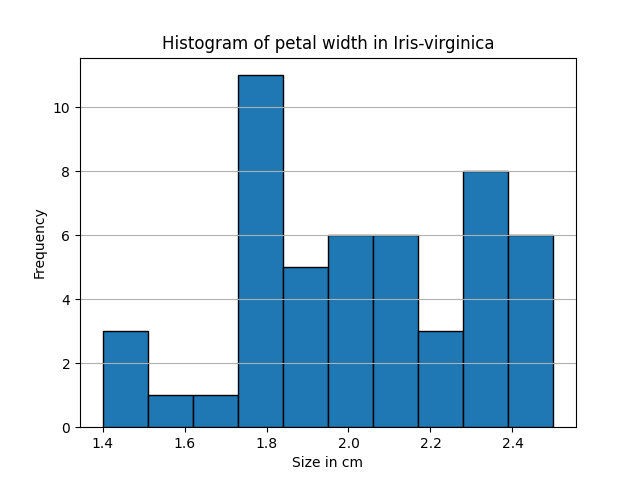
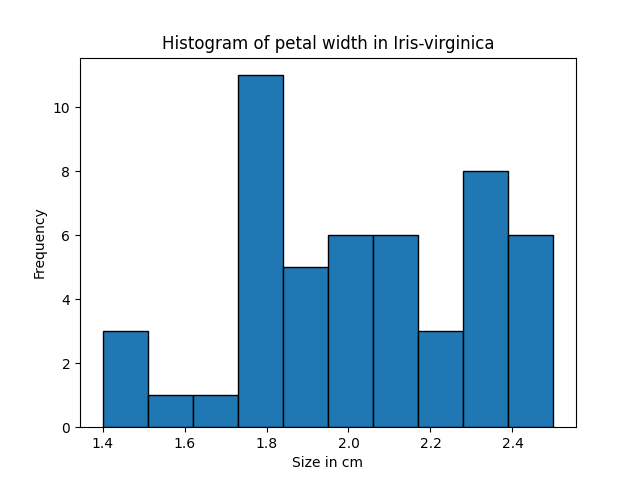
analysis #5

diff --git a/analysis.py b/analysis.py
@@ -32,7 +32,6 @@ def load_data():
         counter += 1
 
 
-
 # The below line defines a function which generates a text file featuring a summary for each of the three variables/species of iris in the dataset, including information on the mean, standard deviation, minimum and maximum values of each attribute of each variable.
 def generate_summary():
     # The program uses the open() and write() functions to open and write to a text file called "summary_text_file" (reference #7)
@@ -85,8 +84,6 @@ def generate_histogram():
             # {attribute} pulls the name of each attribute from the "list_of_attributes"
             # pandas.DataFrame.iat returns the value of a cell if given the row index, and column index (reference #6). This provides the variable name for each of the 3 variables (variable name is always located in column "4").
             plt.title(f"Histogram of {attribute} in {plant.iat[0, 4]}")
-            # pyplot.grid() enables the grid lines, improving readability of the graph, with parameter setting them to only be visable on the y-axis (reference #19)
-            plt.grid(True, axis="y")
             # pyplot.savefig() saves the figure, if given a title, as a specificed file type (in this case .png) to a specified directory (reference #16)
             # pandas.DataFrame.iat returns the value of a cell if given the row index, and column index (reference #6). This directs which folder the figure will be saved in, and also influences the title of the figure.
             # {attribute} pulls the name of each attribute from the "list_of_attributes"
@@ -118,13 +115,13 @@ def generate_scatterplot():
             elif combination == 3:
                 species_1 = list_of_variables[0]
                 species_2 = list_of_variables[2]
-            # Below, the two pyplot.scatter lines serve to create a signle scatterplot which two sources of information (reference #20)
+            # Below, the two pyplot.scatter lines serve to create a signle scatterplot which two sources of information (reference #19)
             # The relevant data columns are selected using the Dataframe.get method, and the counter variable
-            # pyplot.scatter also takes in the parameters "color" (which sets the color of the selected data), "marker" (which sets the shape of the data markers)(reference #21), "s" (which sets the size of the data markers), and "alpha" (which sets the transparency of data markers)
+            # pyplot.scatter also takes in the parameters "color" (which sets the color of the selected data), "marker" (which sets the shape of the data markers)(reference #20), "s" (which sets the size of the data markers), and "alpha" (which sets the transparency of data markers)
             plt.scatter(species_1.get(counter), species_1.get(counter + 1), color="red", marker="x", s=75)
             plt.scatter(species_2.get(counter), species_2.get(counter + 1), color="blue", alpha=0.5)
             # pyplot.title sets the title of the scatterplot, and pull required information as outlined previously in the generate_histogram function
-            # The title() function, when applied to a string, capitalises the first characters of each word in the string. This was done to improve the look of each graph (reference #22)
+            # The title() function, when applied to a string, capitalises the first characters of each word in the string. This was done to improve the look of each graph (reference #21)
             plt.title(f"{species_1.iat[0, 4]} and {species_2.iat[0, 4]}: {list_of_attributes[counter].title()} and {list_of_attributes[counter + 1].title()}")
             # pyplot.legend inserts a legend into the scatterplot identifying the two variables present in the scatterplot and their associoated colors
             plt.legend([f"{species_1.iat[0, 4]}", f"{species_2.iat[0, 4]}"])
@@ -137,6 +134,35 @@ def generate_scatterplot():
             plt.clf()
             combination += 1
         counter = 2
+
+
+# The below line defines a function which generates a barchart representation of the mean attribute size of each species of iris for each attribute.
+def generate_barchart():
+    # The "counter" variable tracks which column from the dataset should be inputted
+    counter = 0
+    # For each attribute in the "list_of_attributes" a barchart is created
+    for attribute in list_of_attributes:
+        # The below line creates am empty dictionary object called "mean_dictionary"
+        mean_dictionary = {}
+        # For each species of iris in "list_of_variables" the mean values of the specified column and the name of the species in question are saved to variables
+        # The variables appended as key value pairs to the previously created "mean_dictionary" using dict.update() (reference #23)
+        for plant in list_of_variables:
+            mean = plant.get(counter).mean()
+            name = plant.iat[0, 4]
+            mean_dictionary.update({name : mean})
+        # The keys from "mean_dictionary" are then saved to a list titled "names"
+        names = list(mean_dictionary.keys())
+        # The values from "mean_dictionary" are also saved to a list, titled "means"
+        means = list(mean_dictionary.values())
+        # pyplot.bar is used to generate a barchart, with the lists "names" and "means" being input as the information for the barchart. Color and column width are also defined (reference #22)
+        plt.bar(names, means, color="teal", width=0.5)
+        # I have previously outlined the remaining lines in this function in other functions.
+        plt.xlabel("Species of Iris")
+        plt.ylabel(f"Mean {attribute}")
+        plt.title(f"Mean {attribute.title()} of each species of Iris")
+        plt.savefig(f"./images/barcharts/Barchart of mean {attribute} in each species.png")
+        plt.clf()
+        counter += 1
 
 
 # This line creates a list titled "list_of_variables".
@@ -158,6 +184,8 @@ with pd.read_csv("iris.data", header=None, chunksize=50) as reader:
     generate_histogram()
     # The program then calls the generate_scatterplot function (defined above).
     generate_scatterplot()
+    # The program lastly calls the generate_barchart function (defined above).
+    generate_barchart()
 
 
 
@@ -181,7 +209,8 @@ with pd.read_csv("iris.data", header=None, chunksize=50) as reader:
 # Reference #16: https://matplotlib.org/3.5.0/api/_as_gen/matplotlib.pyplot.savefig.html#matplotlib.pyplot.savefig
 # Reference #17: https://matplotlib.org/3.5.0/api/_as_gen/matplotlib.pyplot.clf.html
 # Reference #18: https://matplotlib.org/3.5.0/api/_as_gen/matplotlib.patches.Patch.html#matplotlib.patches.Patch
-# Reference #19: https://matplotlib.org/3.5.0/api/_as_gen/matplotlib.pyplot.grid.html#matplotlib.pyplot.grid
-# Reference #20: https://realpython.com/visualizing-python-plt-scatter/#exploring-pltscatter-further
-# Reference #21: https://matplotlib.org/stable/api/markers_api.html#module-matplotlib.markers
-# Reference #22: https://thispointer.com/python-capitalize-the-first-letter-of-each-word-in-a-string/#:~:text=Use%20title()%20to%20capitalize,of%20word%20to%20lower%20case.
+# Reference #19: https://realpython.com/visualizing-python-plt-scatter/#exploring-pltscatter-further
+# Reference #20 https://matplotlib.org/stable/api/markers_api.html#module-matplotlib.markers
+# Reference #21: https://thispointer.com/python-capitalize-the-first-letter-of-each-word-in-a-string/#:~:text=Use%20title()%20to%20capitalize,of%20word%20to%20lower%20case.
+# Reference #22: https://www.geeksforgeeks.org/bar-plot-in-matplotlib/
+# Reference #23: https://thispointer.com/python-how-to-add-append-key-value-pairs-in-dictionary-using-dict-update/
